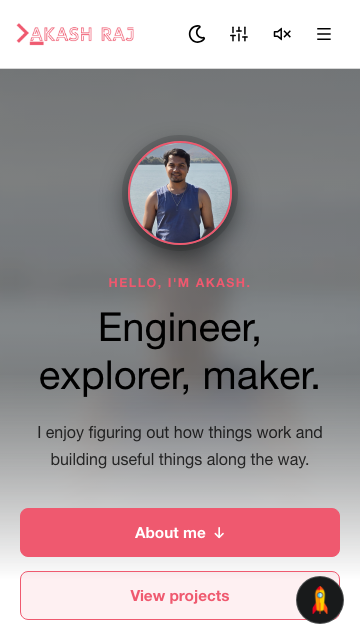
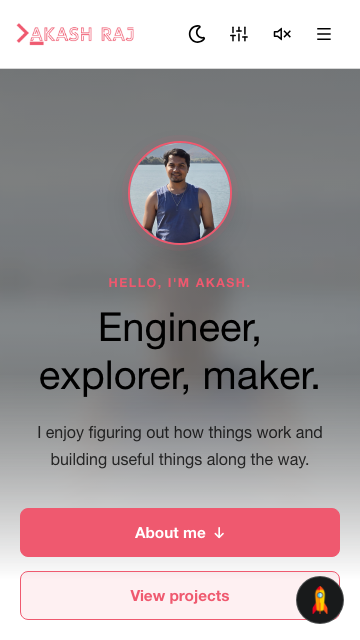
theme the profile portrait halo

Changed region(s): [[0.3361, 0.1875, 0.6722, 0.4062]]

diff --git a/src/assets/styles/pages/Home.scss b/src/assets/styles/pages/Home.scss
@@ -43,10 +43,10 @@
 		aspect-ratio: 1;
 		object-fit: cover;
 		border-radius: 50%;
-		border: 2px solid color.adjust($primary-color, $alpha: -0.68);
+		border: 2px solid var(--theme-accent-border);
 		box-shadow:
-			0 10px 26px color.adjust($bg-color, $alpha: -0.18),
-			0 0 0 6px color.adjust($bg-color, $alpha: -0.82);
+			0 10px 26px var(--theme-shadow),
+			0 0 0 6px var(--theme-accent-08);
 		margin: 0 auto 1.75rem;
 	}
 	.home-hero__content.is-visible .home-portrait {
@@ -253,17 +253,17 @@
 		0% {
 			opacity: 0;
 			transform: scale(0.94);
-			box-shadow: 0 0 0 0 color.adjust($primary-color, $alpha: -0.72);
+			box-shadow: 0 0 0 0 var(--theme-accent-08);
 		}
 		70% {
 			opacity: 1;
 			transform: scale(1);
-			box-shadow: 0 0 0 10px color.adjust($primary-color, $alpha: -0.92);
+			box-shadow: 0 0 0 10px var(--theme-accent-15);
 		}
 		100% {
 			opacity: 1;
 			transform: scale(1);
-			box-shadow: 0 0 0 7px color.adjust($primary-color, $alpha: -0.9);
+			box-shadow: 0 0 0 7px var(--theme-accent-08);
 		}
 	}
 	@keyframes home-rocket-nudge {
